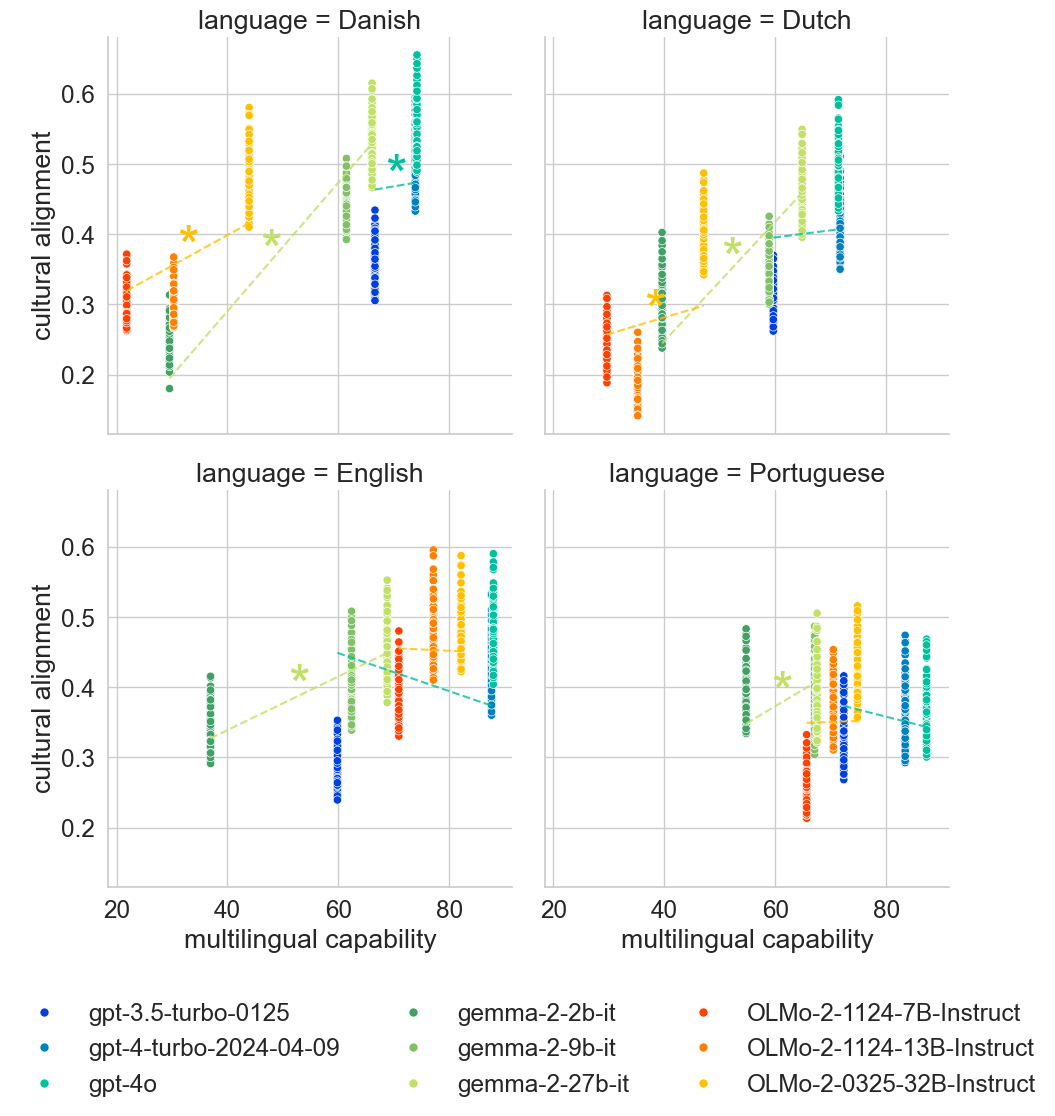
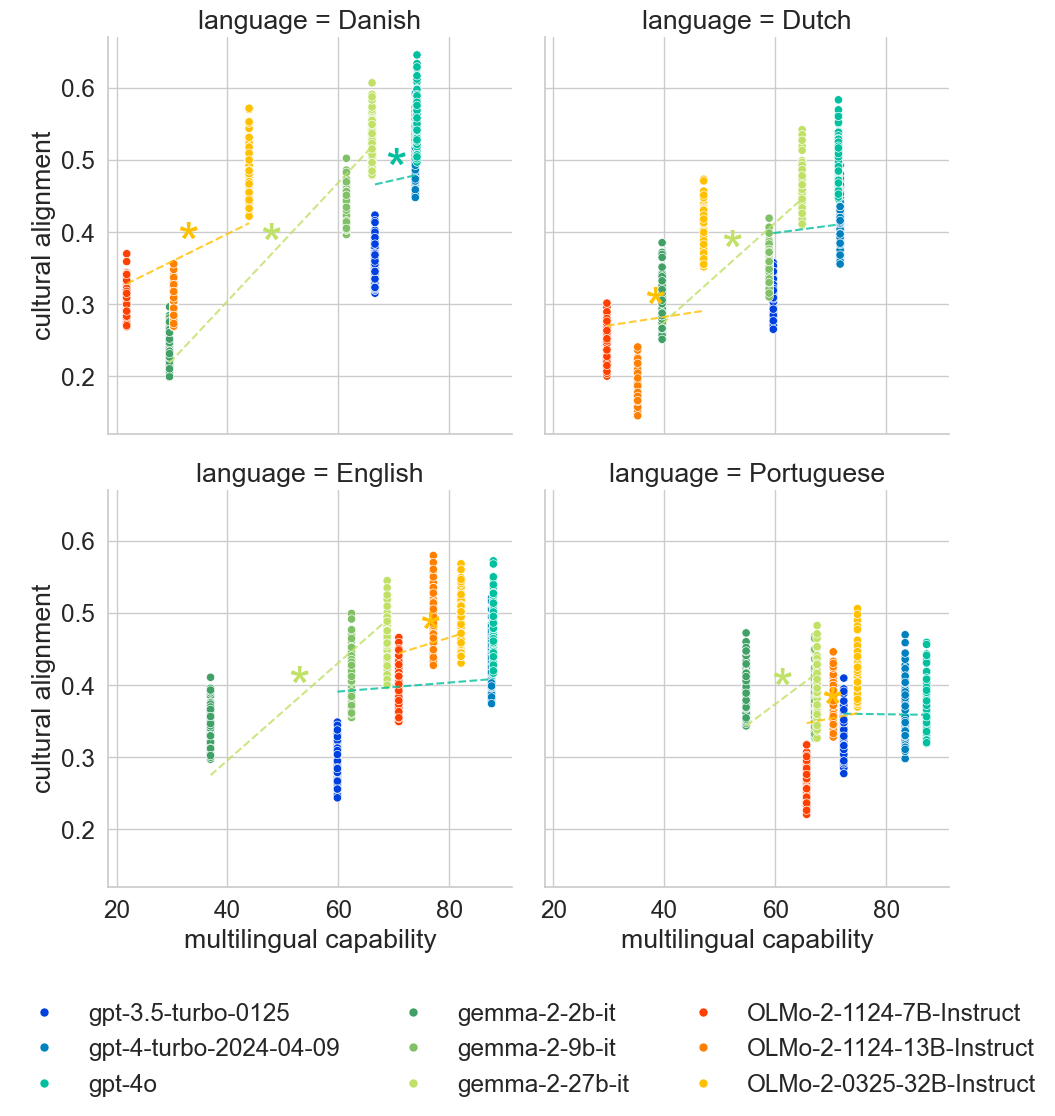
update filter for plot

diff --git a/scripts/plot_multilingual_benchmarks.py b/scripts/plot_multilingual_benchmarks.py
@@ -141,7 +141,10 @@ def get_experiment_data() -> pl.DataFrame:
 
 
 def create_plot_data(
-    benches: pl.DataFrame, multilingual_coefficients: pl.DataFrame, regression_data: pl.DataFrame
+    benches: pl.DataFrame,
+    multilingual_coefficients: pl.DataFrame,
+    regression_data: pl.DataFrame,
+    regression_type: str = "normal",
 ) -> pl.DataFrame:
     alignment_clean = calculate_adjusted_alignments(regression_data=regression_data)
     avg_score = benches.group_by(["model", "language"]).agg(pl.col("score").mean()).rename({"model": "model_name"})
@@ -154,7 +157,7 @@ def create_plot_data(
         .rename({"score": "multilingual capability"})
         .with_columns(pl.col("language").replace(LANGUAGE_MAP))
         .rename({"adjusted_alignment": "cultural alignment"})
-        .join(multilingual_coefficients, on=["family", "language"])
+        .join(multilingual_coefficients.filter(pl.col("regression_type") == regression_type), on=["family", "language"])
     )
 
 
@@ -178,6 +181,7 @@ def plot_multilingual_coefficients(regression_data: pl.DataFrame) -> pl.DataFram
         "no_consistency": "alignment ~ 0 + multilingual:family:language",
         "interaction": "alignment ~ 0 + consistency:language + multilingual:family:language",
     }
+    all_multilingual_results_df = []
     for name, formula in formulas.items():
         logger.info(f"Running regression with formula: {formula}")
         regression_results = run_multilingual_regression(regression_data, regression_formula=formula)
@@ -218,7 +222,12 @@ def plot_multilingual_coefficients(regression_data: pl.DataFrame) -> pl.DataFram
         plt.legend(title=None)
         plt.savefig(PLOT_DIR / f"multilingual_coefficients_{name}.png", bbox_inches="tight")
         plt.close()
-    return multilingual_results_df.select("family", "language", "coefficient", "p_value")
+        all_multilingual_results_df.append(
+            multilingual_results_df.with_columns(
+                pl.lit(name).alias("regression_type"),
+            )
+        )
+    return pl.concat(all_multilingual_results_df).select("family", "language", "coefficient", "p_value", "regression_type")
 
 
 if __name__ == "__main__":
